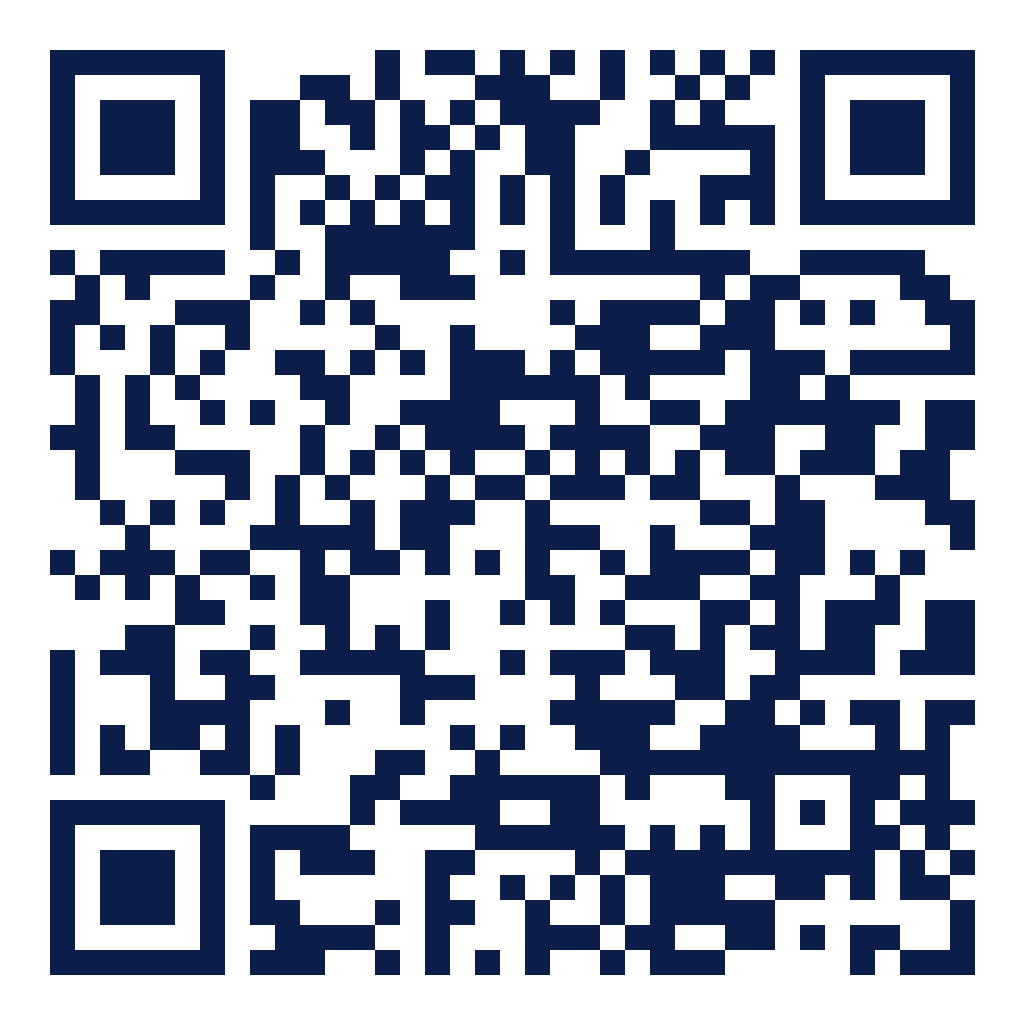
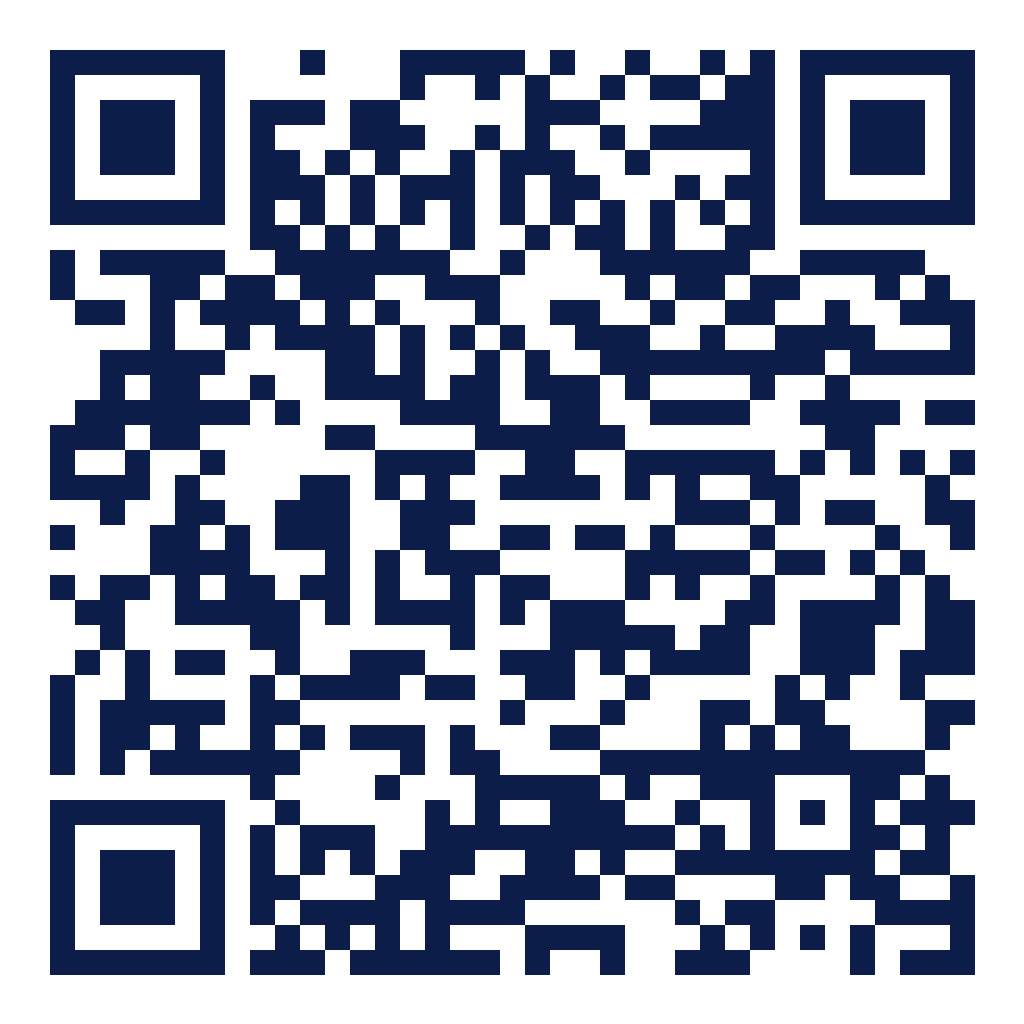
Update QR code URL for Bengaluru Tech Summit 2026 and modify SVG image. Replace old URL with a new contact page link in both the QR generation script and the TypeScript file. Update the PNG and SVG assets to reflect the latest design changes.

diff --git a/src/lib/bts.ts b/src/lib/bts.ts
@@ -7,7 +7,7 @@ export const BTS_WHATSAPP_HREF =
   );
 
 export const BTS_QR_URL =
-  "https://businessclinic.in/bengaluru-tech-summit-2026?ref=bts-qr";
+  "https://indiabusinessclinic.com/contact?source=bts-2026&service=india-entry";
 
 export const BTS_PREFILL_MESSAGE =
   "BTS 2026 — India Entry Discussion request. I am an international technology, manufacturing or industrial company exploring opportunities in India and would like to schedule a conversation at Bengaluru Tech Summit 2026 (17–19 November 2026).";
